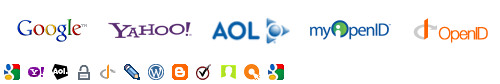
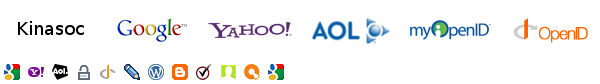
some validation

Changed region(s): [[0.03, 0.2143, 0.99, 0.5238], [0.0, 0.7619, 0.57, 0.9524]]

diff --git a/public/js/openid-en.js b/public/js/openid-en.js
@@ -6,6 +6,10 @@
 */
 
 var providers_large = {
+	kinasoc : {
+		name : 'Kinasoc',
+		url : 'javascript:kinasoc_click();'
+	},
 	google : {
 		name : 'Google',
 		url : 'https://www.google.com/accounts/o8/id'
@@ -23,11 +27,6 @@ var providers_large = {
 		name : 'MyOpenID',
 		label : 'Enter your MyOpenID username.',
 		url : 'http://{username}.myopenid.com/'
-	},
-	openid : {
-		name : 'OpenID',
-		label : 'Enter your OpenID.',
-		url : null
 	}
 };
 

diff --git a/public/js/kinasoc.js b/public/js/kinasoc.js
@@ -22,6 +22,11 @@ function extractLast( term ) {
 
 $(document).ready(function(){
    $('form').uniform();
+   
+   jQuery.validator.addMethod("validlogin", function(value, element) {
+	return this.optional(element) || /^([a-zA-Z0-9]+)$/.test(value);
+	}, "Vous ne pouvez utilisez que des lettres ou des chiffres."); 
+   
 });
 
 var RecaptchaOptions = {

diff --git a/classes/controllers/user.class.php b/classes/controllers/user.class.php
@@ -12,6 +12,18 @@
 			$this->render();
 		}
 		
+		public function local_loginAction(){
+			if(isset($_POST['login']) && isset($_POST['password'])):
+				if(\application\user::login($_POST['login'],$_POST['password'])):
+					\kinaf\routes::redirect_to("home","index");
+				else:
+					$this->add("error",_("Login / Mot de passe incorrect"));
+					$this->add("login",$_POST['login']);
+				endif;
+			endif;
+			$this->render();
+		}
+		
 		public function register_helperAction(){
 			if(isset($_REQUEST['email'])){
 				$u = \application\user::getByemail($_REQUEST['email']);
@@ -66,7 +78,7 @@
 						$u->creationDate = date("d/m/Y G:i:s");
 						$u->openid_identifier = $_REQUEST['openid_identity'];
 						$u->save();
-						$_SESSION['account']['id'] = $u->id;
+						$u->loginProcess();
 						\kinaf\routes::redirect_to("user","create_login");
 					}
 				}
@@ -79,24 +91,28 @@
 					if( strlen($_REQUEST['password']) >= $this->params['minLengthPass'] ):
 						if ( $this->verifyCaptcha($_REQUEST['recaptcha_challenge_field'],$_REQUEST['recaptcha_response_field']) ):
 							if ( filter_var($_REQUEST['email'], FILTER_VALIDATE_EMAIL) ):
-								$u = \application\user::getByemail($_REQUEST['email']);
-								if( is_null($u) ):
-									$u = \application\user::getBylogin($_REQUEST['login']);
+								if( preg_match("^[a-zA-Z0-9]+^",$_REQUEST['login']) ):
+									$u = \application\user::getByemail($_REQUEST['email']);
 									if( is_null($u) ):
-										// all the checks are good we create the user
-										$u = new \application\user();
-										$u->login = $_REQUEST['login'];
-										$u->password = hash("sha512",$_REQUEST['password']);
-										$u->email = $_REQUEST['email'];
-										$u->creationDate = date("d/m/Y G:i:s");
-										$u->save();
-										$_SESSION['account']['id'] = $u->id;
-										echo "ok";
+										$u = \application\user::getBylogin($_REQUEST['login']);
+										if( is_null($u) ):
+											// all the checks are good we create the user
+											$u = new \application\user();
+											$u->login = $_REQUEST['login'];
+											$u->password = hash("sha512",$_REQUEST['password']);
+											$u->email = $_REQUEST['email'];
+											$u->creationDate = date("d/m/Y G:i:s");
+											$u->save();
+											$u->loginProcess();
+											echo "ok";
+										else:
+											echo "err_7"; // login is allready used
+										endif;
 									else:
-										echo "err_7"; // login is allready used
+										echo "err_6"; // email is allready used
 									endif;
 								else:
-									echo "err_6"; // email is allready used
+									echo "err_8"; // space or special chars
 								endif;
 							else:
 								echo "err_5"; // email is invalid

diff --git a/classes/application/user.class.php b/classes/application/user.class.php
@@ -20,6 +20,23 @@
 			}
 		}
 		
+		public static function login($l,$p){
+			$pdo = \kinaf\db::singleton();
+			$q = $pdo->query("select id from user where login = ".$pdo->quote($l)." and password = ".$pdo->quote(hash("sha512",$p)));
+			if($q->rowCount() == 1){
+				$q = $q->fetch();
+				$u = new user($q['id']);
+				$u->loginProcess();
+				return true;
+			} else {
+				return false;
+			}
+		}
+		
+		public static function validLogin($login){
+			return preg_match("^([a-zA-Z0-9]+)^",$login);
+		}
+		
 		public function __toString(){
 			return $this->login."";
 		}
@@ -30,6 +47,17 @@
 		
 		public function getPoints(){
 			return 1500;
+		}
+		
+		public function loginProcess(){
+			$_SESSION['account']['id'] = $this->id;
+			$today = date("d/m/Y");
+			$lastLogin = date("d/m/Y",strtotime($this->lastLogin));
+			if($today != $lastLogin){
+				$this->presence = $this->presence + 1;
+			}
+			$this->lastLogin = date("d/m/Y G:i:s");
+			$this->save();
 		}
 		
 		/**

diff --git a/views/user/local_login.php b/views/user/local_login.php
@@ -1,0 +1,25 @@
+<h2 class="title">Connexion à votre compte</h2>
+<form action="" method="post" class="uniForm" id="login">
+  <fieldset class="">
+    <div class="ctrlHolder">
+      <label for=""><?=_("Login");?></label>
+      <input name="login" value="<?=$login;?>" size="35" class="textInput required" type="text">
+      <p class="formHint"></p>
+    </div>
+  
+    <div class="ctrlHolder">
+      <label for=""><?=_("Mot de passe");?></label>
+      <input name="password" value="" size="35" class="textInput required" type="password">
+      <p class="formHint"></p>
+    </div>
+  
+    <div class="buttonHolder"><button type="submit" class="primaryAction"><?=_("Connexion");?></button></div>
+  </fieldset>
+</form>
+<script>
+	$("#login").validate({
+		errorPlacement: function(error, element) {
+			error.appendTo( element.next() );
+		}
+	});
+</script>

diff --git a/layouts/default/header.php b/layouts/default/header.php
@@ -29,12 +29,12 @@ Released   : 20100529
 	<script type="text/javascript" src="http://ajax.googleapis.com/ajax/libs/jqueryui/1.8.11/jquery-ui.min.js"></script>
 	<script type="text/javascript" src="/js/uni-form.jquery.min.js"></script>
 	<script type="text/javascript" src="/js/jquery.showMessage.min.js"></script>
-	<script type="text/javascript" src="/js/kinasoc.js"></script>
 	<script type="text/javascript" src="/js/jquery.wysiwyg.js"></script>
 	<script type="text/javascript" src="/js/jquery.validate.pack.js"></script>
 	<script type="text/javascript" src="/js/tag-it.js"></script>
 	<script type="text/javascript" src="/js/openid-jquery.js"></script>
 	<script type="text/javascript" src="/js/openid-en.js"></script>
+	<script type="text/javascript" src="/js/kinasoc.js"></script>
 </head>
 <body>
 <div id="wrapper">

diff --git a/classes/kinaf/modele.class.php b/classes/kinaf/modele.class.php
@@ -40,7 +40,7 @@ abstract class Modele {
 	public static function getByField($field,$value){
 		$pdo = \kinaf\db::singleton();
 		$classname = get_called_class();
-		$r = $pdo->query("select id from ".static::$table." where `".$field."` = '$value'");
+		$r = $pdo->query("select id from ".static::$table." where `".$field."` = ".$pdo->quote($value));
 		if($r->rowCount()==1){
 			$r = $r->fetch();
 			$classname = get_called_class();

diff --git a/layouts/default/footer.php b/layouts/default/footer.php
@@ -46,5 +46,10 @@
 	<p>Copyright (c) 2008 Sitename.com. All rights reserved. Design by <a href="http://www.freecsstemplates.org/">Free CSS Templates</a>.</p>
 </div>
 <!-- end #footer -->
+<? if(isset($error)):?>
+	<script>
+		displayError("<?=$error;?>");
+	</script>
+<? endif;?>
 </body>
 </html>

diff --git a/views/user/register.php b/views/user/register.php
@@ -85,6 +85,7 @@
 					remote: "<?=\kinaf\routes::url_to("user","register_helper");?>"
 				},
 				login: {
+					validlogin: true,
 					remote: "<?=\kinaf\routes::url_to("user","register_helper");?>"
 				},
 				password_confirm: {

diff --git a/views/user/login.php b/views/user/login.php
@@ -29,4 +29,8 @@
 		$(document).ready(function() {
 			openid.init('openid_identifier');
 		});
+		
+		function kinasoc_click(){
+			location.href = "<?=\kinaf\routes::url_to("user","local_login");?>";
+		}
 	</script>

diff --git a/views/user/create_login.php b/views/user/create_login.php
@@ -27,6 +27,7 @@
 			},
 			rules: {
 				login: {
+					validlogin: true,
 					remote: "<?=\kinaf\routes::url_to("user","register_helper");?>"
 				}
 			},
